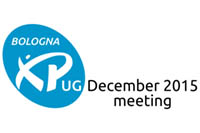
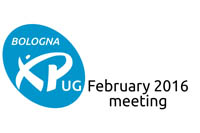
Add next BOXPUG meetings

Changed region(s): [[0.42, 0.6015, 0.99, 0.8421], [0.12, 0.3008, 0.15, 0.3308]]

diff --git a/section-past_events.html b/section-past_events.html
@@ -1,6 +1,115 @@
 <h1 class="section-title text-center">PAST EVENTS</h1>
 <div class="content clearfix">
-  <!--
+<!--
+  <article class="block-item col-xl-2_5 col-lg-3 col-md-4 col-sm-4 col-xs-6">
+    <h1 class="block-title text-left">
+      <i class="fa fa-glass"></i>
+      <a href="http://boxpug0216.eventbrite.it" target="blank">
+        BOXPUG 02 2016 meeting
+      </a>
+    </h1>
+    <figure class="figure">
+      <a href="http://boxpug0216.eventbrite.it" target="blank">
+        <img src="/assets/images/section-past_events/boxpug-2016-02.jpg" alt="Bologna XPUG February 2016 meeting logo" />
+      </a>
+      <div class="block-info top text-center">
+        <span class="block-date pull-left">16.02.2016</span>
+        <span class="block-city pull-right">Bologna</span>
+      </div>
+    </figure>
+    <div class="block-text text-justify">
+      TO BE DONE
+    </div>
+    <a class="link-btn more-info white" href="http://boxpug0216.eventbrite.it" target="blank">
+      More
+    </a>
+    <a class="goto-github pull-right" href="http://github.com/CodersTUG/Events/tree/master/2015/2016_02_16-BOXPUGFeb16Meeting" target="blank">
+      <i class="fa fa-2x fa-github"></i>
+    </a>
+  </article>
+-->
+<!--
+  <article class="block-item col-xl-2_5 col-lg-3 col-md-4 col-sm-4 col-xs-6">
+    <h1 class="block-title text-left">
+      <i class="fa fa-glass"></i>
+      <a href="http://boxpug0116.eventbrite.it" target="blank">
+        BOXPUG 01 2016 meeting
+      </a>
+    </h1>
+    <figure class="figure">
+      <a href="http://boxpug0116.eventbrite.it" target="blank">
+        <img src="/assets/images/section-past_events/boxpug-2016-01.jpg" alt="Bologna XPUG January 2016 meeting logo" />
+      </a>
+      <div class="block-info top text-center">
+        <span class="block-date pull-left">19.01.2016</span>
+        <span class="block-city pull-right">Bologna</span>
+      </div>
+    </figure>
+    <div class="block-text text-justify">
+      TO BE DONE
+    </div>
+    <a class="link-btn more-info white" href="http://boxpug0116.eventbrite.it" target="blank">
+      More
+    </a>
+    <a class="goto-github pull-right" href="http://github.com/CodersTUG/Events/tree/master/2015/2016_01_19-BOXPUGJan16Meeting" target="blank">
+      <i class="fa fa-2x fa-github"></i>
+    </a>
+  </article>
+-->
+<!--
+  <article class="block-item col-xl-2_5 col-lg-3 col-md-4 col-sm-4 col-xs-6">
+    <h1 class="block-title text-left">
+      <i class="fa fa-glass"></i>
+      <a href="http://boxpug1215.eventbrite.it" target="blank">
+        BOXPUG 12 2015 meeting
+      </a>
+    </h1>
+    <figure class="figure">
+      <a href="http://boxpug1215.eventbrite.it" target="blank">
+        <img src="/assets/images/section-past_events/boxpug-2015-12.jpg" alt="Bologna XPUG December 2015 meeting logo" />
+      </a>
+      <div class="block-info top text-center">
+        <span class="block-date pull-left">15.12.2015</span>
+        <span class="block-city pull-right">Bologna</span>
+      </div>
+    </figure>
+    <div class="block-text text-justify">
+      TO BE DONE
+    </div>
+    <a class="link-btn more-info white" href="http://boxpug1215.eventbrite.it" target="blank">
+      More
+    </a>
+    <a class="goto-github pull-right" href="http://github.com/CodersTUG/Events/tree/master/2015/2015_12_15-BOXPUGDec15Meeting" target="blank">
+      <i class="fa fa-2x fa-github"></i>
+    </a>
+  </article>
+-->
+  <article class="block-item col-xl-2_5 col-lg-3 col-md-4 col-sm-4 col-xs-6">
+    <h1 class="block-title text-left">
+      <i class="fa fa-glass"></i>
+      <a href="http://boxpug1115.eventbrite.it" target="blank">
+        BOXPUG 11 2015 meeting
+      </a>
+    </h1>
+    <figure class="figure">
+      <a href="http://boxpug1115.eventbrite.it" target="blank">
+        <img src="/assets/images/section-past_events/boxpug-2015-11.jpg" alt="Bologna XPUG November 2015 meeting logo" />
+      </a>
+      <div class="block-info top text-center">
+        <span class="block-date pull-left">17.11.2015</span>
+        <span class="block-city pull-right">Bologna</span>
+      </div>
+    </figure>
+    <div class="block-text text-justify">
+      RabbitMQ: introduction, clustering options and some tips and tricks related to monitoring, troubleshooting and performance tuning
+    </div>
+    <a class="link-btn more-info white" href="http://boxpug1115.eventbrite.it" target="blank">
+      More
+    </a>
+    <a class="goto-github pull-right" href="http://github.com/CodersTUG/Events/tree/master/2015/2015_11_17-BOXPUGNov15Meeting" target="blank">
+      <i class="fa fa-2x fa-github"></i>
+    </a>
+  </article>
   <article class="block-item col-xl-2_5 col-lg-3 col-md-4 col-sm-4 col-xs-6">
     <h1 class="block-title text-left">
       <i class="fa fa-glass"></i>
@@ -27,7 +136,6 @@
       <i class="fa fa-2x fa-github"></i>
     </a>
   </article>
-  -->
   <!--
   <article class="block-item col-xl-2_5 col-lg-3 col-md-4 col-sm-4 col-xs-6">
     <h1 class="block-title text-left">

diff --git a/section-news.html b/section-news.html
@@ -2,57 +2,57 @@
 <div class="content clearfix">
   <article class="block-item col-xl-3 col-lg-4 col-md-5 col-sm-5">
     <figure class="figure">
-      <a href="http://flux2redux.eventbrite.it" target="blank">
+      <a href="http://boxpug1215.eventbrite.it" target="blank">
         <img src="assets/images/section-news/featured.jpg" alt="From Flux to Redux" >
         <div class="block-info bottom clearfix">
-          <span class="block-date pull-left">13.11.2015</span>
-          <span class="block-city pull-right">Pisa</span>
+          <span class="block-date pull-left">15.12.2015</span>
+          <span class="block-city pull-right">Bologna</span>
         </div>
       </a>
     </figure>
     <h1 class="block-title text-left">
-      <a href="http://flux2redux.eventbrite.it" target="blank">
+      <a href="http://boxpug1215.eventbrite.it" target="blank">
         <div>
-          From <span class="highlight">Flux</span> to <span class="highlight">Redux</span>
+          <span class="highlight">Bologna XPUG</span> December 2015 meeting
         </div>
       </a>
     </h1>
     <div class="block-text text-justify">
       <p>
-        A predictable state container, using pure functions to describe state mutations
+        The topic we will talk about will soon be published
       </p>
     </div>
-    <a class="link-btn more-info white" href="http://flux2redux.eventbrite.it" target="blank">More</a>
+    <a class="link-btn more-info white" href="http://boxpug1215.eventbrite.it" target="blank">More</a>
   </article>
   <section class="col-xl-offset-1 col-xl-4 col-lg-5 col-md-7 col-sm-7">
     <h1 class="hidden">Latest news</h1>
     <article class="block-item clearfix">
       <figure class="figure pull-left">
-        <a href="http://boxpug1115.eventbrite.it" class="js-menu">
-          <img src="assets/images/section-news/item-01.jpg" alt="Bologna XPUG November 2015 event logo" >
+        <a href="http://boxpug0116.eventbrite.it" class="js-menu">
+          <img src="assets/images/section-news/item-01.jpg" alt="Bologna XPUG January 2016 event logo" >
         </a>
       </figure>
       <div class="block-info">
-        17.11.2015 <i class="fa fa-glass"></i><i> Bologna</i>
+        19.01.2016 <i class="fa fa-glass"></i><i> Bologna</i>
       </div>
       <h1 class="block-title text-left">
-        <a href="http://boxpug1115.eventbrite.it" class="js-menu">
-          Bologna XPUG November 2015 meeting
+        <a href="http://boxpug0116.eventbrite.it" class="js-menu">
+          Bologna XPUG January 2016 meeting
         </a>
       </h1>
     </article>
     <article class="block-item clearfix">
       <figure class="figure pull-left">
-        <a href="#news" class="js-menu">
-          <img src="assets/images/section-news/item-02.jpg" alt="Bologna XPUG December 2015 event logo" >
+        <a href="http://boxpug0216.eventbrite.it" class="js-menu">
+          <img src="assets/images/section-news/item-02.jpg" alt="Bologna XPUG February 2016 event logo" >
         </a>
       </figure>
       <div class="block-info">
-        15.12.2015 <i class="fa fa-glass"></i><i> Bologna</i>
+        16.02.2016 <i class="fa fa-glass"></i><i> Bologna</i>
       </div>
       <h1 class="block-title text-left">
-        <a href="#news" class="js-menu">
-          Bologna XPUG December 2015 meeting
+        <a href="http://boxpug0216.eventbrite.it" class="js-menu">
+          Bologna XPUG February 2016 meeting
         </a>
       </h1>
     </article>
